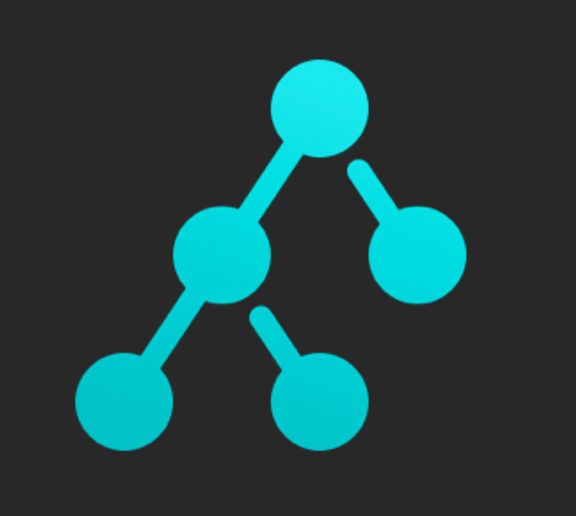
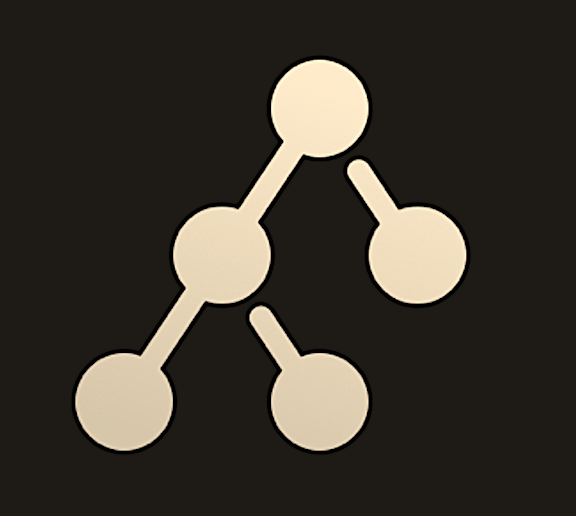
updated website style

Changed region(s): [[0.125, 0.093, 0.8438, 0.8992]]

diff --git a/assets/css/main.css b/assets/css/main.css
@@ -99,7 +99,7 @@ input, select, textarea {
 	}
 
 	body {
-		background: #242943;
+		background: #672504ed;
 	}
 
 		body.is-preload *, body.is-preload *:before, body.is-preload *:after {
@@ -2465,7 +2465,7 @@ input, select, textarea {
 		}
 
 		table thead {
-			border-bottom: solid 2px rgba(212, 212, 255, 0.1);
+			border-bottom: solid 2px rgba(236, 79, 6, 0.1);
 		}
 
 		table tfoot {
@@ -2938,7 +2938,7 @@ input, select, textarea {
 			-webkit-flex-direction: row;
 			-ms-flex-direction: row;
 			flex-direction: row;
-			background-color: #2e3450;
+			background-color: #9e4201;
 		}
 
 			.spotlights > section > .image {
@@ -3000,7 +3000,7 @@ input, select, textarea {
 				-webkit-flex-direction: row-reverse;
 				-ms-flex-direction: row-reverse;
 				flex-direction: row-reverse;
-				background-color: #333856;
+				background-color: #9e4201de;
 			}
 
 				.spotlights > section:nth-child(2n) > .content {
@@ -3410,7 +3410,7 @@ input, select, textarea {
 			-ms-transition-delay: 0.75s;
 			transition-delay: 0.75s;
 			pointer-events: none;
-			background-color: #242943;
+			background-color: #432b24;
 			content: '';
 			display: block;
 			height: 100%;
@@ -3491,11 +3491,11 @@ input, select, textarea {
 			}
 
 		#banner.style1:after {
-			background-color: #6fc3df;
+			background-color: #df896f;
 		}
 
 		#banner.style2:after {
-			background-color: #8d82c4;
+			background-color: #f79758;
 		}
 
 		#banner.style3:after {
@@ -3926,7 +3926,7 @@ input, select, textarea {
 			}
 
 	body.is-ie #menu {
-		background: rgba(42, 47, 74, 0.975);
+		background: rgba(74, 48, 42, 0.975);
 	}
 
 	body.is-menu-visible #wrapper {
